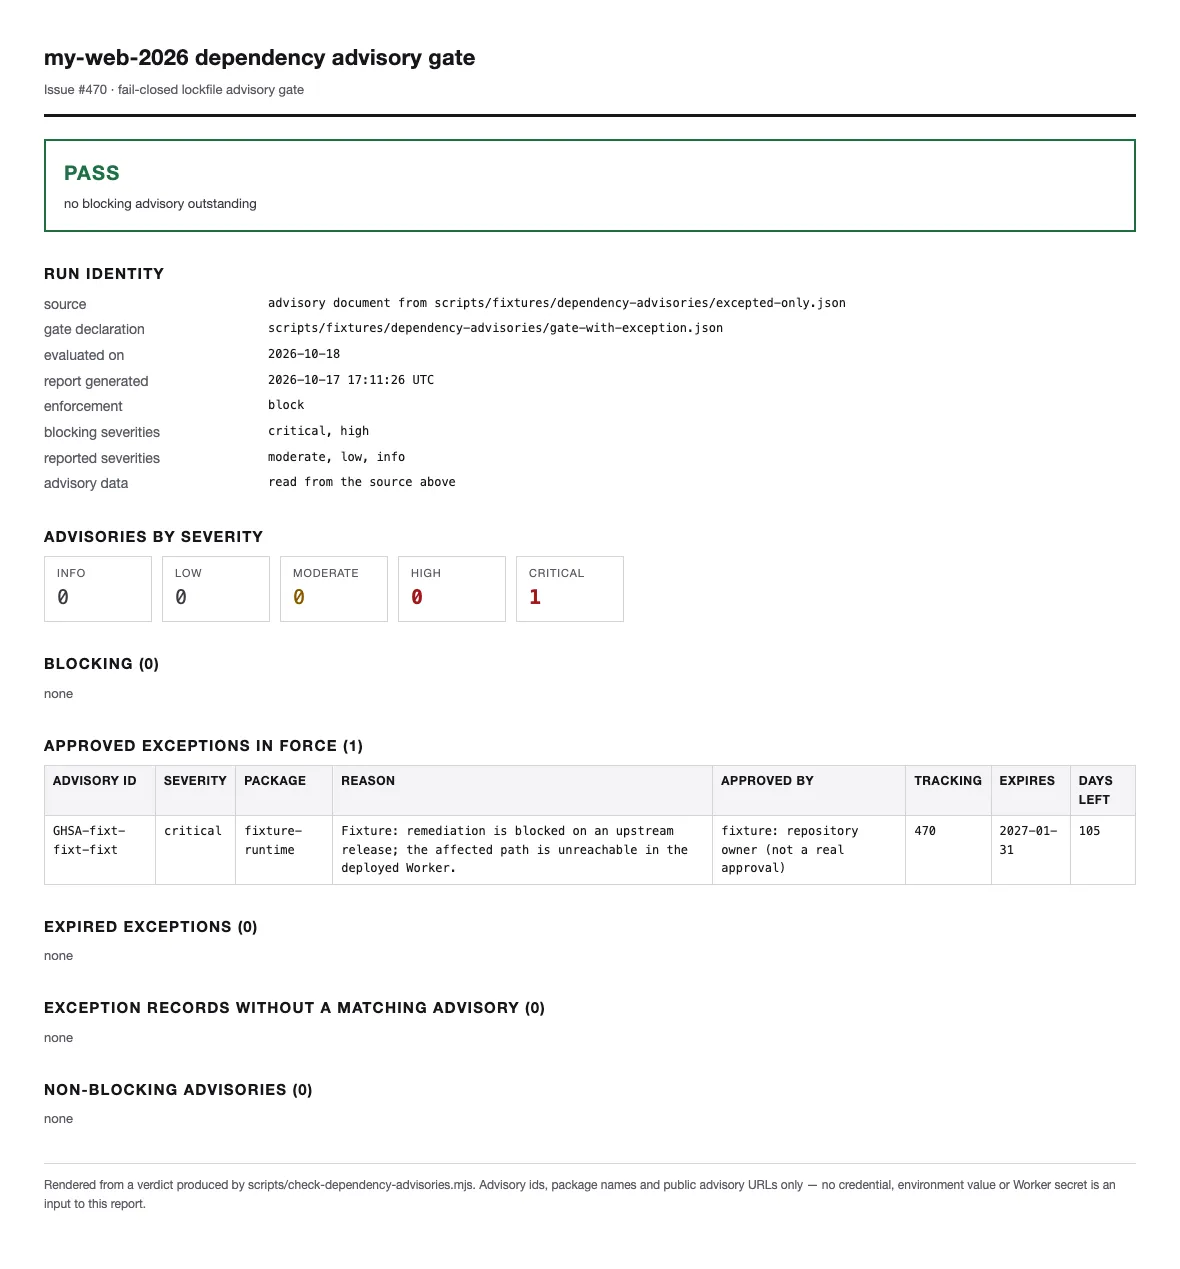
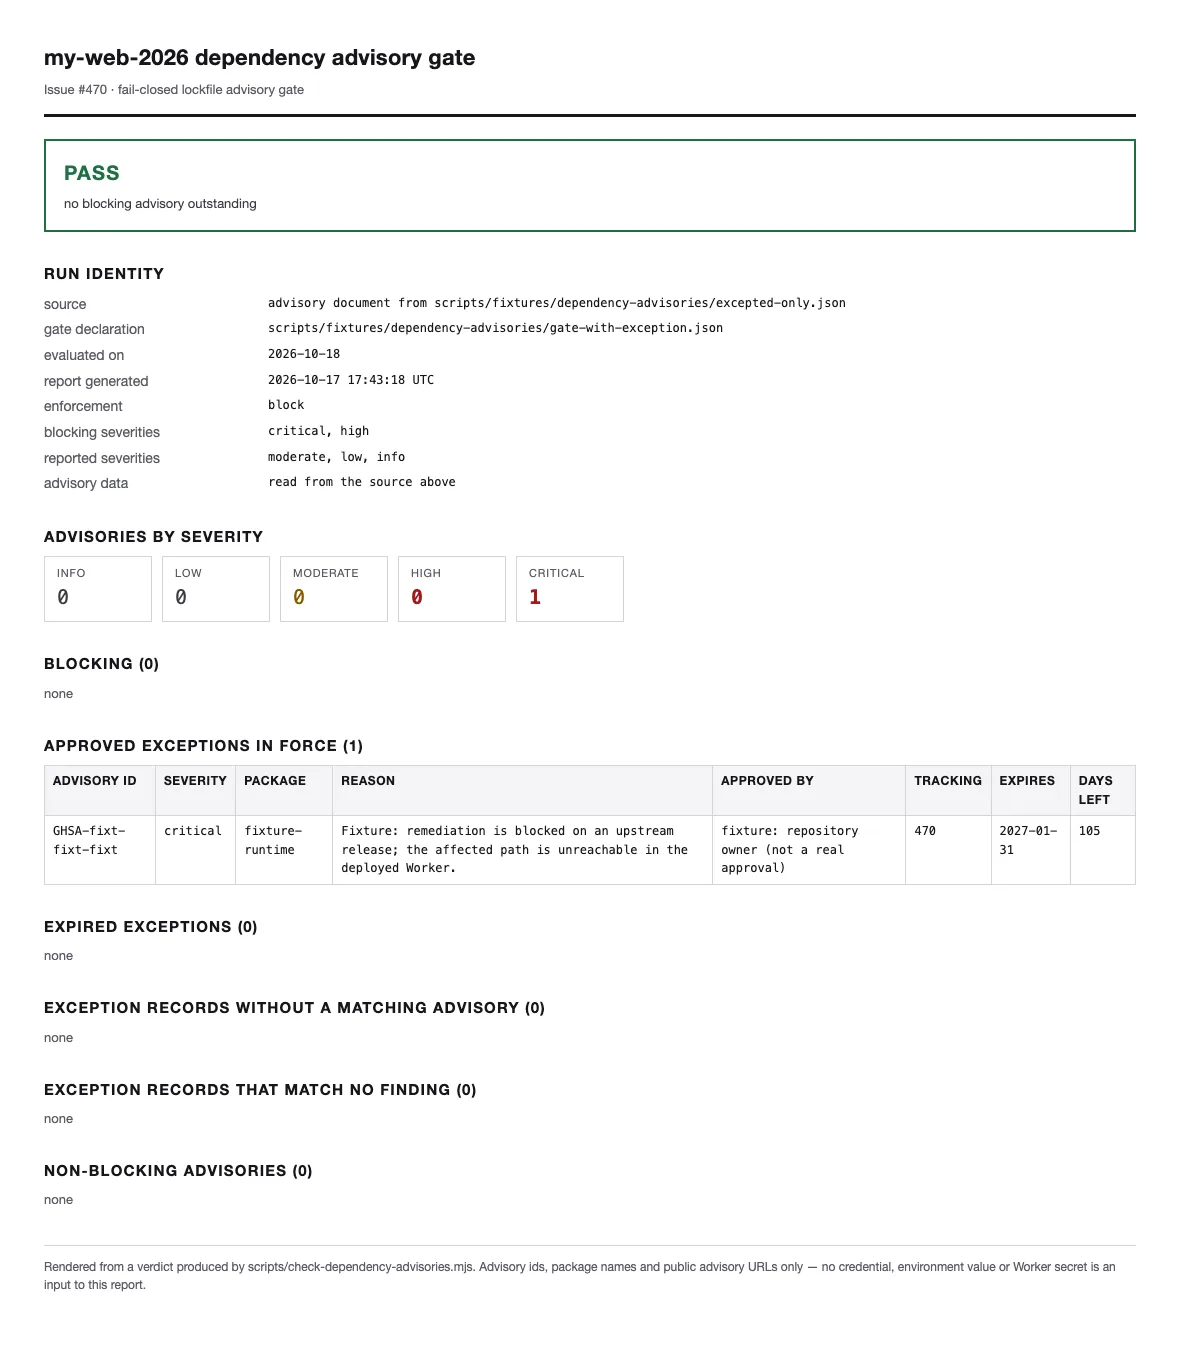
docs(supply-chain): make the advisory runbook match the gate it documents (#470)
Documentation fixes for the gate, all of them statements the code did not
previously back:

- §3 no longer claims a `package`/`severity` contradiction is rejected
  with exit `2`. The document was read, so it is a verdict: the record
  suppresses nothing, the uncovered finding keeps blocking, and the
  record is listed under `exception records that match no finding` with
  the package/severity the document reports.
- §3 documents the `(advisoryId, package)` ledger key, one record per
  affected package, and that `reportedSeverities` is enforced — a
  severity in neither list fails closed.
- §2 adds the exit `2` cases the CLI now handles (`--now`, an
  unreadable `--input`), and states where the gate runs: CI-only,
  because it needs the registry advisory endpoint that the offline
  `validate:fast` path must not reach. The same divergence is recorded
  in `quality/profile.yaml`, and AGENTS.md §5 now states it, so this
  runbook's cross-link is real rather than claimed.
- §4 pins `--now` in the reproducible transcript and shows the trailing
  `remediation:` line the tool actually prints.
- §5 gains the reproduction recipes for the two-package advisory, the
  mismatched record and the two usage mistakes.
- §7 records that an upstream response body is never echoed into stdout
  or the 90-day artifact; only a fixed message plus the endpoint's own
  error code is.
- §6 and `quality/profile.yaml` name the open owner decision: 18
[…]

diff --git a/docs/runbook/dependency-advisories.md b/docs/runbook/dependency-advisories.md
@@ -2,7 +2,7 @@
 
 > Lockfile advisory gate for `my-web-2026` (Issue #470). Canonical
 > operator reference for the `pnpm audit`-based CI gate. Cross-linked
-> from [`AGENTS.md §4`](../../AGENTS.md),
+> from [`AGENTS.md §5`](../../AGENTS.md),
 > [`quality/profile.yaml`](../../quality/profile.yaml) and
 > [`docs/security.md`](../security.md).
 >
@@ -53,7 +53,7 @@ pnpm run dep-audit:check -- --now 2026-10-18     # pin the expiry evaluation dat
 | ---- | ------------------------------------------------------------------------------------------------------- |
 | `0`  | pass, **or** blocking findings recorded while the declaration says `enforcement: audit`                 |
 | `1`  | blocking advisories outstanding under `enforcement: block`                                             |
-| `2`  | usage error or a broken/undeclared gate declaration                                                    |
+| `2`  | usage error, unreadable `--input` path, or a broken/undeclared gate declaration                       |
 | `3`  | **advisory data unavailable — fail closed**                                                             |
 
 `3` is the contract that matters most. A registry outage, a rate limit,
@@ -61,6 +61,24 @@ an error document or an unparsable response produces `DATA UNAVAILABLE`
 with every count rendered as `unknown`; there is no code path from
 unreadable data to a pass, and the output never contains a zero-finding
 claim. That is why the CI step is not `continue-on-error`.
+
+`3` describes the **registry**, never the reviewed declaration. A
+mistyped `--now`, a missing `--input` path and a malformed declaration
+are operator mistakes, so they exit `2` with one line on stderr. A
+declaration whose *content* contradicts the document (see
+[§3](#exceptions)) is neither: the document was read, the verdict is
+computed normally, and the record is reported as not covering anything.
+
+### Where this runs
+
+This gate is a **CI step**, not part of `validate:fast` /
+`validate:integration` / `validate:release`: it needs the registry
+advisory endpoint, and the fast path is offline and read-only by
+contract (AGENTS.md §5). Its decision logic lives in
+`scripts/check-dependency-advisories.mjs` — not in workflow YAML — so
+the same verdict is produced by `pnpm run dep-audit:check` locally. That
+divergence is a stated open decision, recorded in
+`quality/profile.yaml#security_gates.dependency_review`.
 
 ## 3. The declaration
 
@@ -78,7 +96,11 @@ claim. That is why the CI step is not `continue-on-error`.
 
 - `blockingSeverities` / `reportedSeverities` — the severity policy. A
   severity has exactly one meaning; listing it in both is rejected. An
-  empty `blockingSeverities` is rejected.
+  empty `blockingSeverities` is rejected. Both lists are **enforced**,
+  not documentation: a finding whose severity is in neither list fails
+  closed as blocking (`severity "…" is declared neither blocking nor
+  reported; failing closed`) instead of quietly landing in the
+  non-blocking list.
 - `enforcement` — `block` stops the build on a blocking finding; `audit`
   records it and exits `0`. It never changes what counts as blocking.
 - `dataUnavailable` — only `fail` is accepted. A policy that tolerates
@@ -89,7 +111,14 @@ claim. That is why the CI step is not `continue-on-error`.
 
 ### Exceptions
 
-One exception is one reviewed record, and it expires:
+One exception is one reviewed record **for one advisory in one package**,
+and it expires. A registry advisory frequently names several affected
+packages — `pnpm audit` then reports one finding per package under the
+same GHSA id — so the ledger is keyed by the pair
+`(advisoryId, package)`: one record per package, not one record per
+advisory id. Two records that differ only in `package` are valid and are
+what a two-package advisory needs; the same pair twice is a copy-paste
+error.
 
 ```json
 {
@@ -105,21 +134,27 @@ One exception is one reviewed record, and it expires:
 
 Behaviour:
 
-| Case                                    | Verdict                                                                  |
-| --------------------------------------- | ------------------------------------------------------------------------ |
-| record covers the advisory, unexpired   | `approved exceptions in force`; it stops blocking, and stays visible      |
-| `expiresOn` is today                    | still covered (`daysRemaining: 0`)                                        |
-| `expiresOn` is in the past              | **blocking again**; also listed under `expired exceptions`               |
-| record matches no advisory in the data  | listed under `exception records with no matching advisory`, remove it    |
-| `package`/`severity` contradict the advisory | the declaration is rejected (exit `2`)                             |
-| duplicated `advisoryId`                 | the declaration is rejected (exit `2`)                                   |
+| Case                                             | Verdict                                                                                        |
+| ------------------------------------------------ | ---------------------------------------------------------------------------------------------- |
+| record covers the advisory **in that package**, unexpired | `approved exceptions in force`; it stops blocking, and stays visible                |
+| `expiresOn` is today                             | still covered (`daysRemaining: 0`)                                                              |
+| `expiresOn` is in the past                       | **blocking again**; also listed under `expired exceptions`                                       |
+| record matches no advisory id in the data        | listed under `exception records with no matching advisory`, remove it                            |
+| `package` / `severity` contradict the advisory    | the record **suppresses nothing**; listed under `exception records that match no finding`, with the package/severity the document actually reports |
+| same advisory id, two different packages          | two records, one per package — this is the supported way to approve a multi-package advisory    |
+| duplicated `(advisoryId, package)`                | the declaration is rejected (exit `2`)                                                           |
+
+A contradiction is never a data failure. The advisory document *was*
+read, so the verdict stays a verdict: the uncovered finding keeps
+blocking, and the output points at the declaration that needs fixing
+rather than at the network.
 
 ## 4. Normal observation
 
 A healthy run of the committed declaration, with no findings:
 
 ```console
-$ pnpm run dep-audit:check -- --input scripts/fixtures/dependency-advisories/clean.json --enforce
+$ pnpm run dep-audit:check -- --input scripts/fixtures/dependency-advisories/clean.json --now 2026-10-18 --enforce
 dependency advisory gate: PASS
   source:              advisory document from scripts/fixtures/dependency-advisories/clean.json
   gate declaration:    quality/dependency-advisory-gate.json
@@ -129,7 +164,12 @@ dependency advisory gate: PASS
   advisories reported: 0
   by severity:          (none)
   blocking after exceptions: 0
+
+remediation: docs/runbook/dependency-advisories.md
 ```
+
+(`--now` is passed so the transcript is reproducible; without it the
+gate prints today's UTC date.)
 
 A healthy run with an approved exception keeps the acceptance record in
 the output — the pass is never silent:
@@ -140,11 +180,19 @@ $ node scripts/check-dependency-advisories.mjs \
     --gate scripts/fixtures/dependency-advisories/gate-with-exception.json \
     --now 2026-10-18 --enforce
 dependency advisory gate: FAIL          # the unexcepted high finding still blocks
+  advisories reported: 4
   blocking after exceptions: 1
+blocking advisories (1):
+  - [high] GHSA-fixt-fixt-figh fixture-parser (installed: 1.9.2; patched: >=1.9.3)
 approved exceptions in force (1):
   - [critical] GHSA-fixt-fixt-fixt fixture-runtime — approved by … until 2027-01-31 (105 day(s) left)
       reason: …
       tracking: 470
+non-blocking advisories (2):
+  - [moderate] GHSA-fixt-fixt-fmod fixture-cli
+  - [low] GHSA-fixt-fixt-flow fixture-docgen
+
+remediation: docs/runbook/dependency-advisories.md
 ```
 
 ![dependency advisory gate — blocking verdict, fixture data](../verification/supply-chain/dependency-audit-report.webp)
@@ -170,9 +218,11 @@ the HTML report the gate writes, not hand-made; the PNG capture stays in
 | `dependency advisory gate: FAIL`, exit `1`                  | a `critical`/`high` advisory is in the lockfile            | upgrade or pin the package (`pnpm why <pkg>`), or open an exception record ([§3](#exceptions)) if the risk is knowingly accepted                                       |
 | `expired exceptions treated as blocking`                    | a record outlived its `expiresOn`                         | remediate, or renew the record with a new date **and** a fresh approval — never extend it silently                                                                            |
 | `exception records with no matching advisory`               | the advisory was fixed or renamed                         | delete the record; a stale exception is not a free pass                                                                                                                      |
+| `exception records that match no finding`                   | the record names a `package`/`severity` the document does not report for that advisory | fix the record to the package and severity actually reported, or delete it; a one-package approval does **not** cover the advisory's other packages |
 | `dependency advisory gate: DATA UNAVAILABLE`, exit `3`      | registry unreachable, rate-limited, error document, or an unparsable response | re-run; if it persists the CI runner or the local network is blocking the advisory endpoint. **Never** add `--ignore-registry-errors`: that flag converts an outage into an empty advisory set |
-| `gate declaration …` error, exit `2`                        | unreadable/invalid declaration or bad CLI usage           | fix the declaration against [§3](#the-declaration); `pnpm exec biome check quality/dependency-advisory-gate.json` covers formatting                              |
+| `gate declaration …` error, exit `2`                        | unreadable/invalid declaration, an unreadable `--input` path, or bad CLI usage (`--now`, `--format`) | fix the declaration against [§3](#the-declaration); `pnpm exec biome check quality/dependency-advisory-gate.json` covers formatting                              |
 | severity reported as unknown                                | the registry added a severity this gate does not know      | add it to the declaration explicitly, in review; the gate refuses to guess a ranking for it                                                                                  |
+| `severity "…" is declared neither blocking nor reported`     | the declaration leaves a known severity unclassified       | classify it in `blockingSeverities` or `reportedSeverities`; the gate fails closed rather than assuming it is non-blocking                                                    |
 
 Reproduction recipes that need no registry access (fixtures are
 synthetic; ids and URLs are `example.invalid`):
@@ -193,6 +243,29 @@ node scripts/check-dependency-advisories.mjs \
   --input scripts/fixtures/dependency-advisories/clean.json --enforce   # exit 0
 ```
 
+One advisory, several packages — the case an id-keyed ledger cannot
+express:
+
+```bash
+# one approved record for fixture-runtime; fixture-server-core keeps blocking
+node scripts/check-dependency-advisories.mjs \
+  --input scripts/fixtures/dependency-advisories/multi-package.json \
+  --gate  scripts/fixtures/dependency-advisories/gate-with-split-exception.json \
+  --now 2026-10-18 --enforce                              # exit 1, second package uncovered
+# a record that names a package the advisory does not report
+node scripts/check-dependency-advisories.mjs \
+  --input scripts/fixtures/dependency-advisories/multi-package.json \
+  --gate  scripts/fixtures/dependency-advisories/gate-with-mismatched-exception.json \
+  --now 2026-10-18 --enforce                              # exit 1, record suppressed nothing
+```
+
+Usage mistakes, which are exit `2` and never a security verdict:
+
+```bash
+node scripts/check-dependency-advisories.mjs --input /nope        # exit 2, ENOENT
+node scripts/check-dependency-advisories.mjs --now garbage        # exit 2, YYYY-MM-DD expected
+```
+
 ## 6. Escalation: `audit` → `block`
 
 The declaration ships with `"enforcement": "audit"` while the lockfile
@@ -206,7 +279,9 @@ To escalate, either
    vulnerable versions (`pnpm why <pkg>`), refresh the lockfile, and let
    the gate report the result; or
 2. **Approve an exception** with a reason, an approver, a tracking issue
-   and an `expiresOn` date that is close enough to force a review; or
+   and an `expiresOn` date that is close enough to force a review —
+   one record **per affected package**, because the ledger is keyed by
+   `(advisoryId, package)`; or
 3. **Narrow the policy** by editing `blockingSeverities` in review — a
    reviewable one-line diff, not a code change.
 
@@ -215,6 +290,11 @@ Once either path leaves zero blocking findings, flip
 failing on any new `critical`/`high` advisory. Nothing else in the
 workflow changes; `pnpm run dep-audit:check -- --enforce` previews the
 exact verdict without editing the reviewed file.
+
+Choosing between the paths, and whether to leave the gate at `audit` at
+all while 18 blocking advisories (3 critical) are outstanding, is an
+**owner decision**, not a code one: this gate ships `exceptions: []`
+and writes no approval on the owner's behalf.
 
 ## 7. Secret posture
 
@@ -227,6 +307,12 @@ path that could do it:
 - The inherited environment is used only to locate `pnpm` on `PATH`; no
   value from it is printed, and the HTML report renders the same
   verdict fields as the text output.
+- An upstream failure is reported as a fixed message plus the endpoint's
+  own error **code**. The response body is never echoed into stdout, into
+  the 90-day CI artifact or into the report, so an endpoint that answers
+  with a token-shaped string cannot plant it in either
+  (`scripts/fixtures/dependency-advisories/upstream-echo.txt` is the
+  regression fixture for this).
 - No Infisical command, no Wrangler secret subcommand, no `.dev.vars`
   read, no remote D1/R2 mutation, no deployment.
 
@@ -239,6 +325,7 @@ environment and none of them may appear in stdout, stderr or the report.
 | Evidence                                               | Where                                                                    |
 | ------------------------------------------------------ | ------------------------------------------------------------------------ |
 | CI run                                                 | `validate` job → `Dependency advisory audit` step of every CI run        |
+| Local reproduction                                     | `pnpm run dep-audit:check -- --input <fixture> --now 2026-10-18 --enforce` (no registry access) |
 | HTML inspection report                                 | artifact `dependency-advisory-report-<sha>` (90 day retention)           |
 | Committed fixture verdict screenshot                    | [`docs/verification/supply-chain/dependency-audit-report.webp`](../verification/supply-chain/dependency-audit-report.webp) |
 | Passing-with-exception screenshot                      | [`docs/verification/supply-chain/dependency-audit-report-excepted.webp`](../verification/supply-chain/dependency-audit-report-excepted.webp) |

diff --git a/docs/security.md b/docs/security.md
@@ -91,9 +91,18 @@ binding API is reachable in the local workerd pool"**, not
   committed lockfile with `pnpm audit --json` and evaluates it against
   the reviewed declaration in `quality/dependency-advisory-gate.json`:
   `critical` / `high` are the declared blocking severities, an approved
-  exception is a record with a reason, an approver, a tracking issue and
-  an expiry date, and advisory data that cannot be read fails closed
-  (exit `3`) instead of being reported as "0 vulnerabilities". Runbook:
+  exception is a record — keyed by `(advisoryId, package)`, because one
+  advisory commonly spans several packages — carrying a reason, an
+  approver, a tracking issue and an expiry date, and advisory data that
+  cannot be read fails closed (exit `3`) instead of being reported as
+  "0 vulnerabilities". A usage mistake or a malformed declaration is
+  exit `2`, never a security verdict. The gate runs in CI rather than in
+  `validate:fast` because it needs the registry advisory endpoint; the
+  decision logic is in `scripts/check-dependency-advisories.mjs` and the
+  same verdict is reproducible with `pnpm run dep-audit:check`. It ships
+  with `enforcement: audit` and no approved exceptions, so outstanding
+  findings are recorded rather than blocking; moving to `block` is an
+  owner decision. Runbook:
   [`docs/runbook/dependency-advisories.md`](runbook/dependency-advisories.md).
 - Code scanning (SAST): deferred.
 - Container scanning: not applicable (no `Containerfile` at 0.1.0).

diff --git a/AGENTS.md b/AGENTS.md
@@ -267,6 +267,19 @@ Playwright E2E is a separate CI step on pushes to `main` / `release-*`
 and on PRs with the `ui-change` label; it is not part of the local
 `validate:release` command.
 
+One gate is deliberately **not** in the three entry points: the
+dependency advisory gate (Issue #470,
+[`quality/dependency-advisory-gate.json`](quality/dependency-advisory-gate.json),
+`pnpm run dep-audit:check`). It needs the npm registry advisory
+endpoint, and `validate:fast` is offline and read-only by contract, so
+it runs as the `Dependency advisory audit` step of the `validate` job
+instead. The decision logic is in `scripts/check-dependency-advisories.mjs`,
+not in workflow YAML, and the same verdict is reproducible locally with
+`pnpm run dep-audit:check`; whether it should also join a local entry
+point is an open decision recorded in
+[`quality/profile.yaml`](quality/profile.yaml). Operator reference:
+[`docs/runbook/dependency-advisories.md`](docs/runbook/dependency-advisories.md).
+
 Local agent and GitHub Actions invoke the same entry points. Do not
 hide validation logic inside workflow YAML. Coverage thresholds are
 **not** enforced at 0.1.0; that decision is in ADR-0007.

diff --git a/docs/release.md b/docs/release.md
@@ -204,8 +204,9 @@ production domain to be wired (Issue #43 / ADR-0014):
      closed (exit `3`) rather than reporting a clean dependency tree.
    - Every outstanding `critical` / `high` advisory is either
      remediated, or covered by an **unexpired** record in
-     `quality/dependency-advisory-gate.json` — and the release notes
-     name which, with the expiry date.
+     `quality/dependency-advisory-gate.json` for that exact
+     `(advisoryId, package)` — and the release notes name which, with
+     the expiry date.
    - This is a dependency check only. It does not change the runtime
      secret SoT (Infisical, ADR-0015), the Cloudflare Workers Builds
      delivery path, or the release-merge human gate in step 5.
